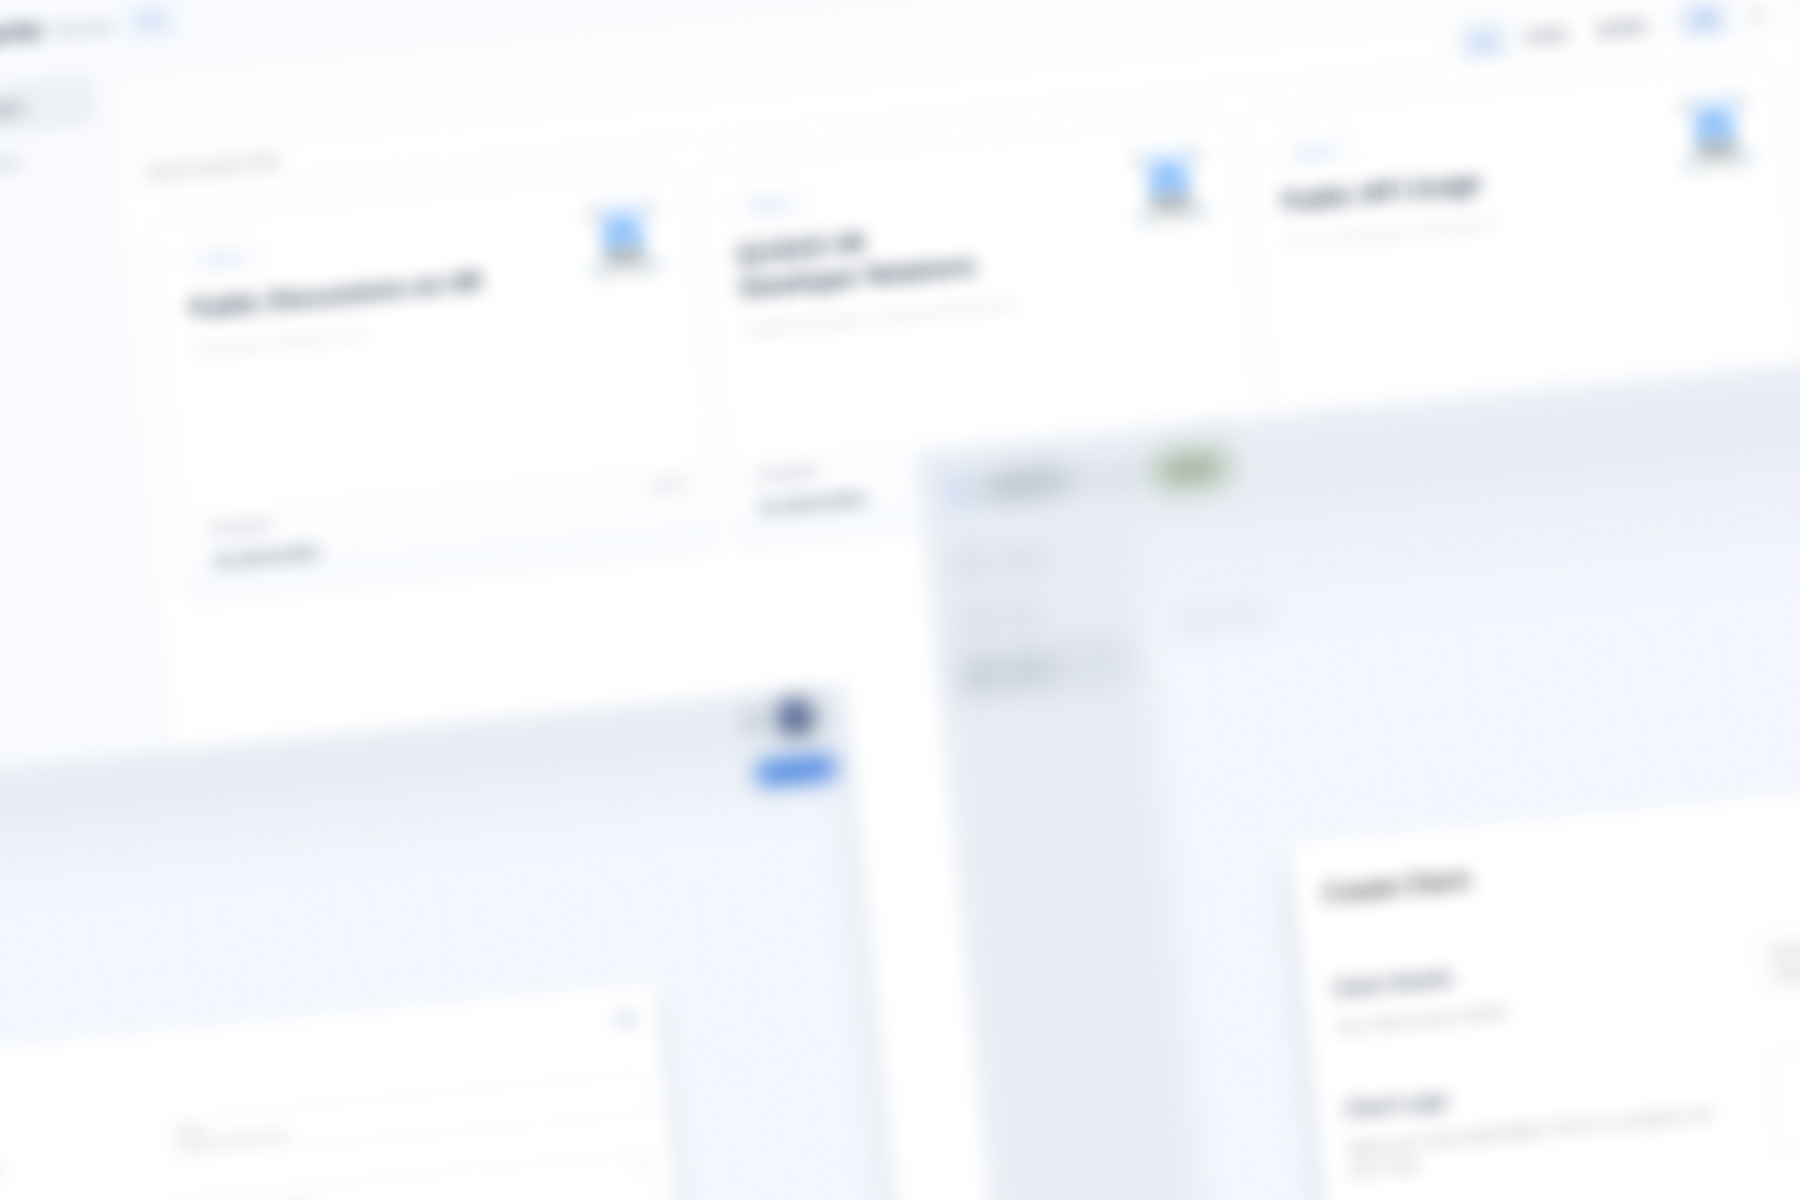
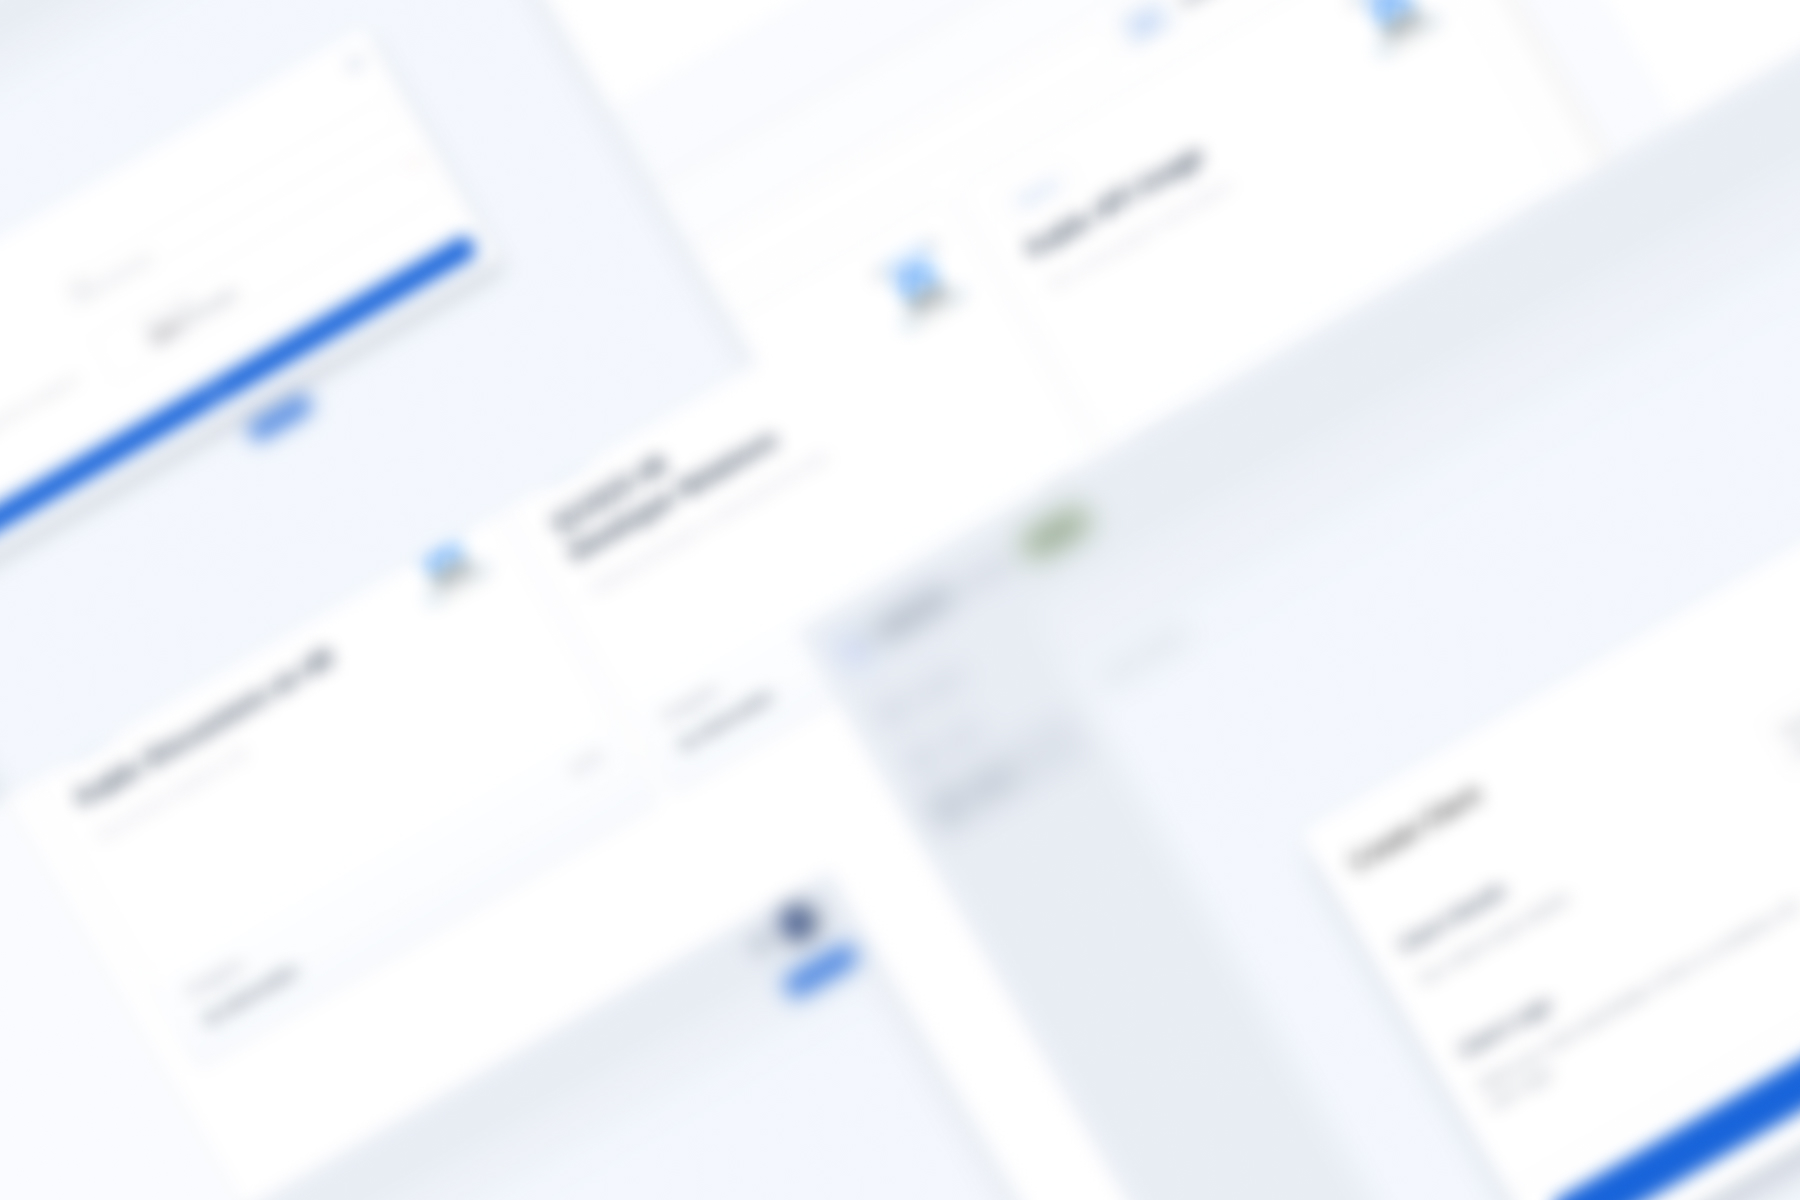
Removing Teams - Single Project page #145

diff --git a/components/Projects/ProjectOverview.vue b/components/Projects/ProjectOverview.vue
@@ -11,7 +11,12 @@
     <section class="project-members">
       <div class="members">
         <div class="members-image" v-for="member in project.project_members" :key="member.user_id">
-          <Avatar :uuid="member.user_id" size="large" />
+          <Avatar v-if="member.user_id" :uuid="member.user_id" size="large" />
+          <section v-else class="invited-member">
+            <div class="icon-email">
+              <Icon name="fluent:mail-unread-20-regular" size="2rem" />
+            </div>
+          </section>
         </div>
       </div>
     </section>
@@ -63,6 +68,26 @@ const debouncedUpdateProjectDescription = debounce((id, value) => updateProjectD
       top: 0;
       display: none;
       border-radius: $br-xl;
+
+      .invited-member {
+        display: flex;
+        flex-direction: row;
+        align-items: center;
+        gap: $spacing-xs;
+
+        .icon-email {
+          width: 40px;
+          height: 40px;
+          border-radius: $br-lg;
+          background: $white;
+          border: $border;
+          color: $gray-dark;
+          display: flex;
+          justify-content: center;
+          align-items: center;
+
+        }
+      }
 
       .user-avatar {
         border: 2px solid $white;

diff --git a/components/Avatar.vue b/components/Avatar.vue
@@ -20,7 +20,7 @@ const src = ref("")
 const path = ref("")
 
 import useProfile from '~/composables/useProfile'
-const { fetchSingleProfile, ProfileData, ProfileError } = useProfile()
+const { fetchSingleProfile, ProfileData } = useProfile()
 
 const downloadImage = async (path) => {
     try {
